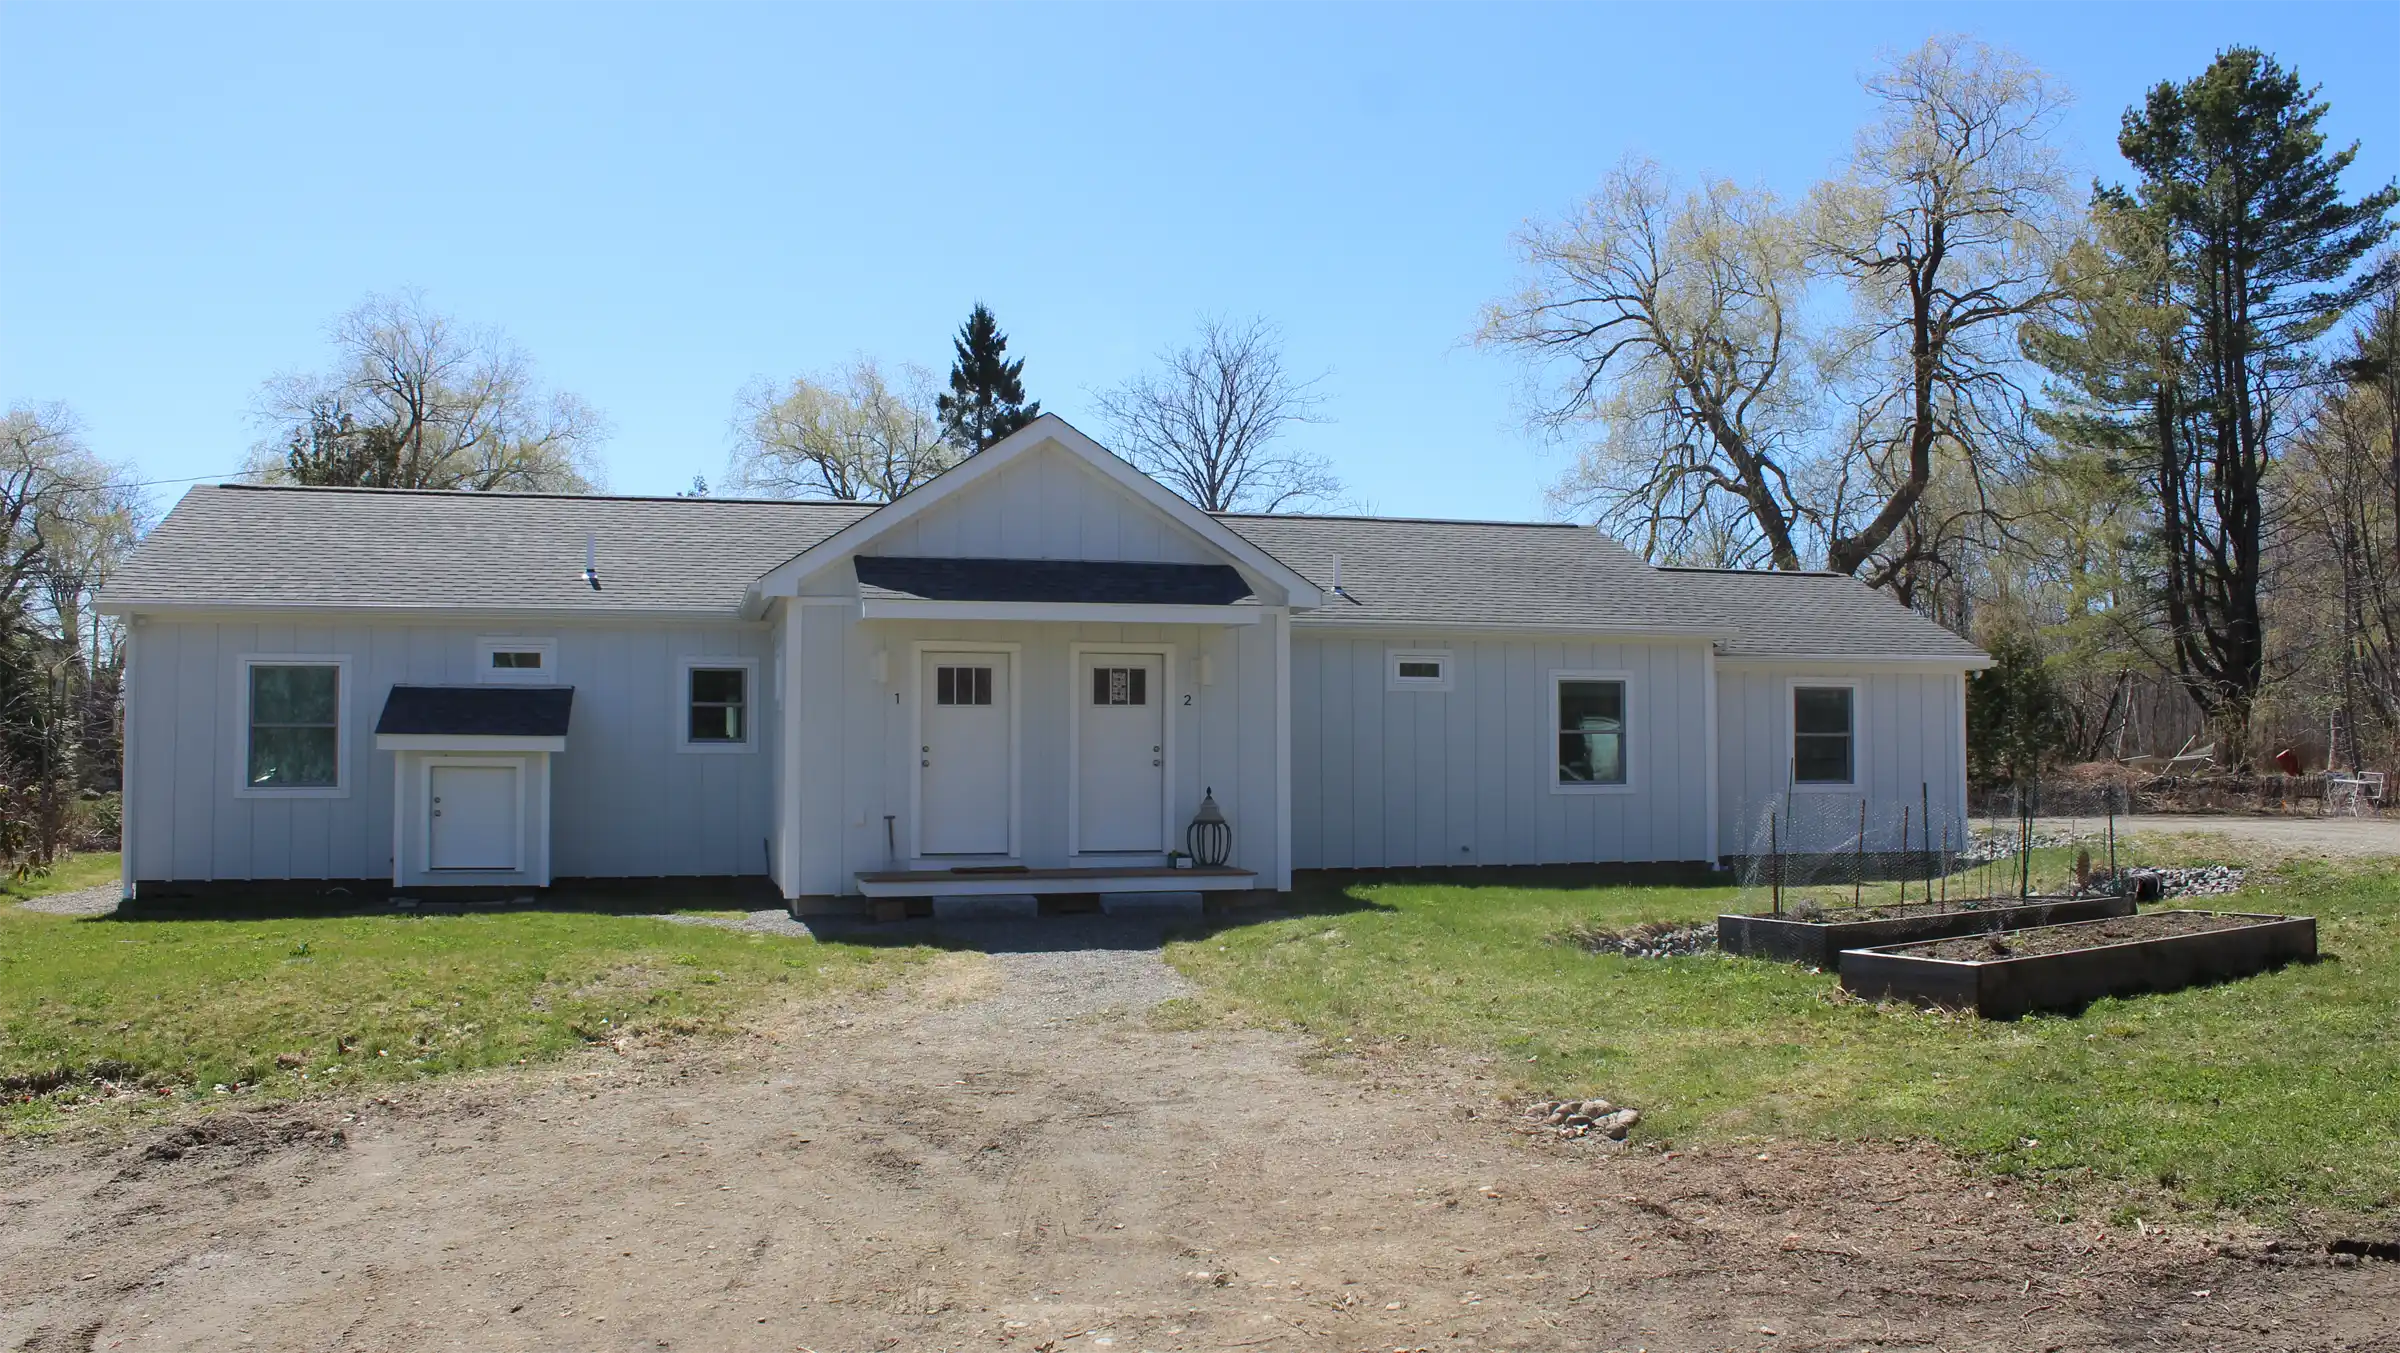
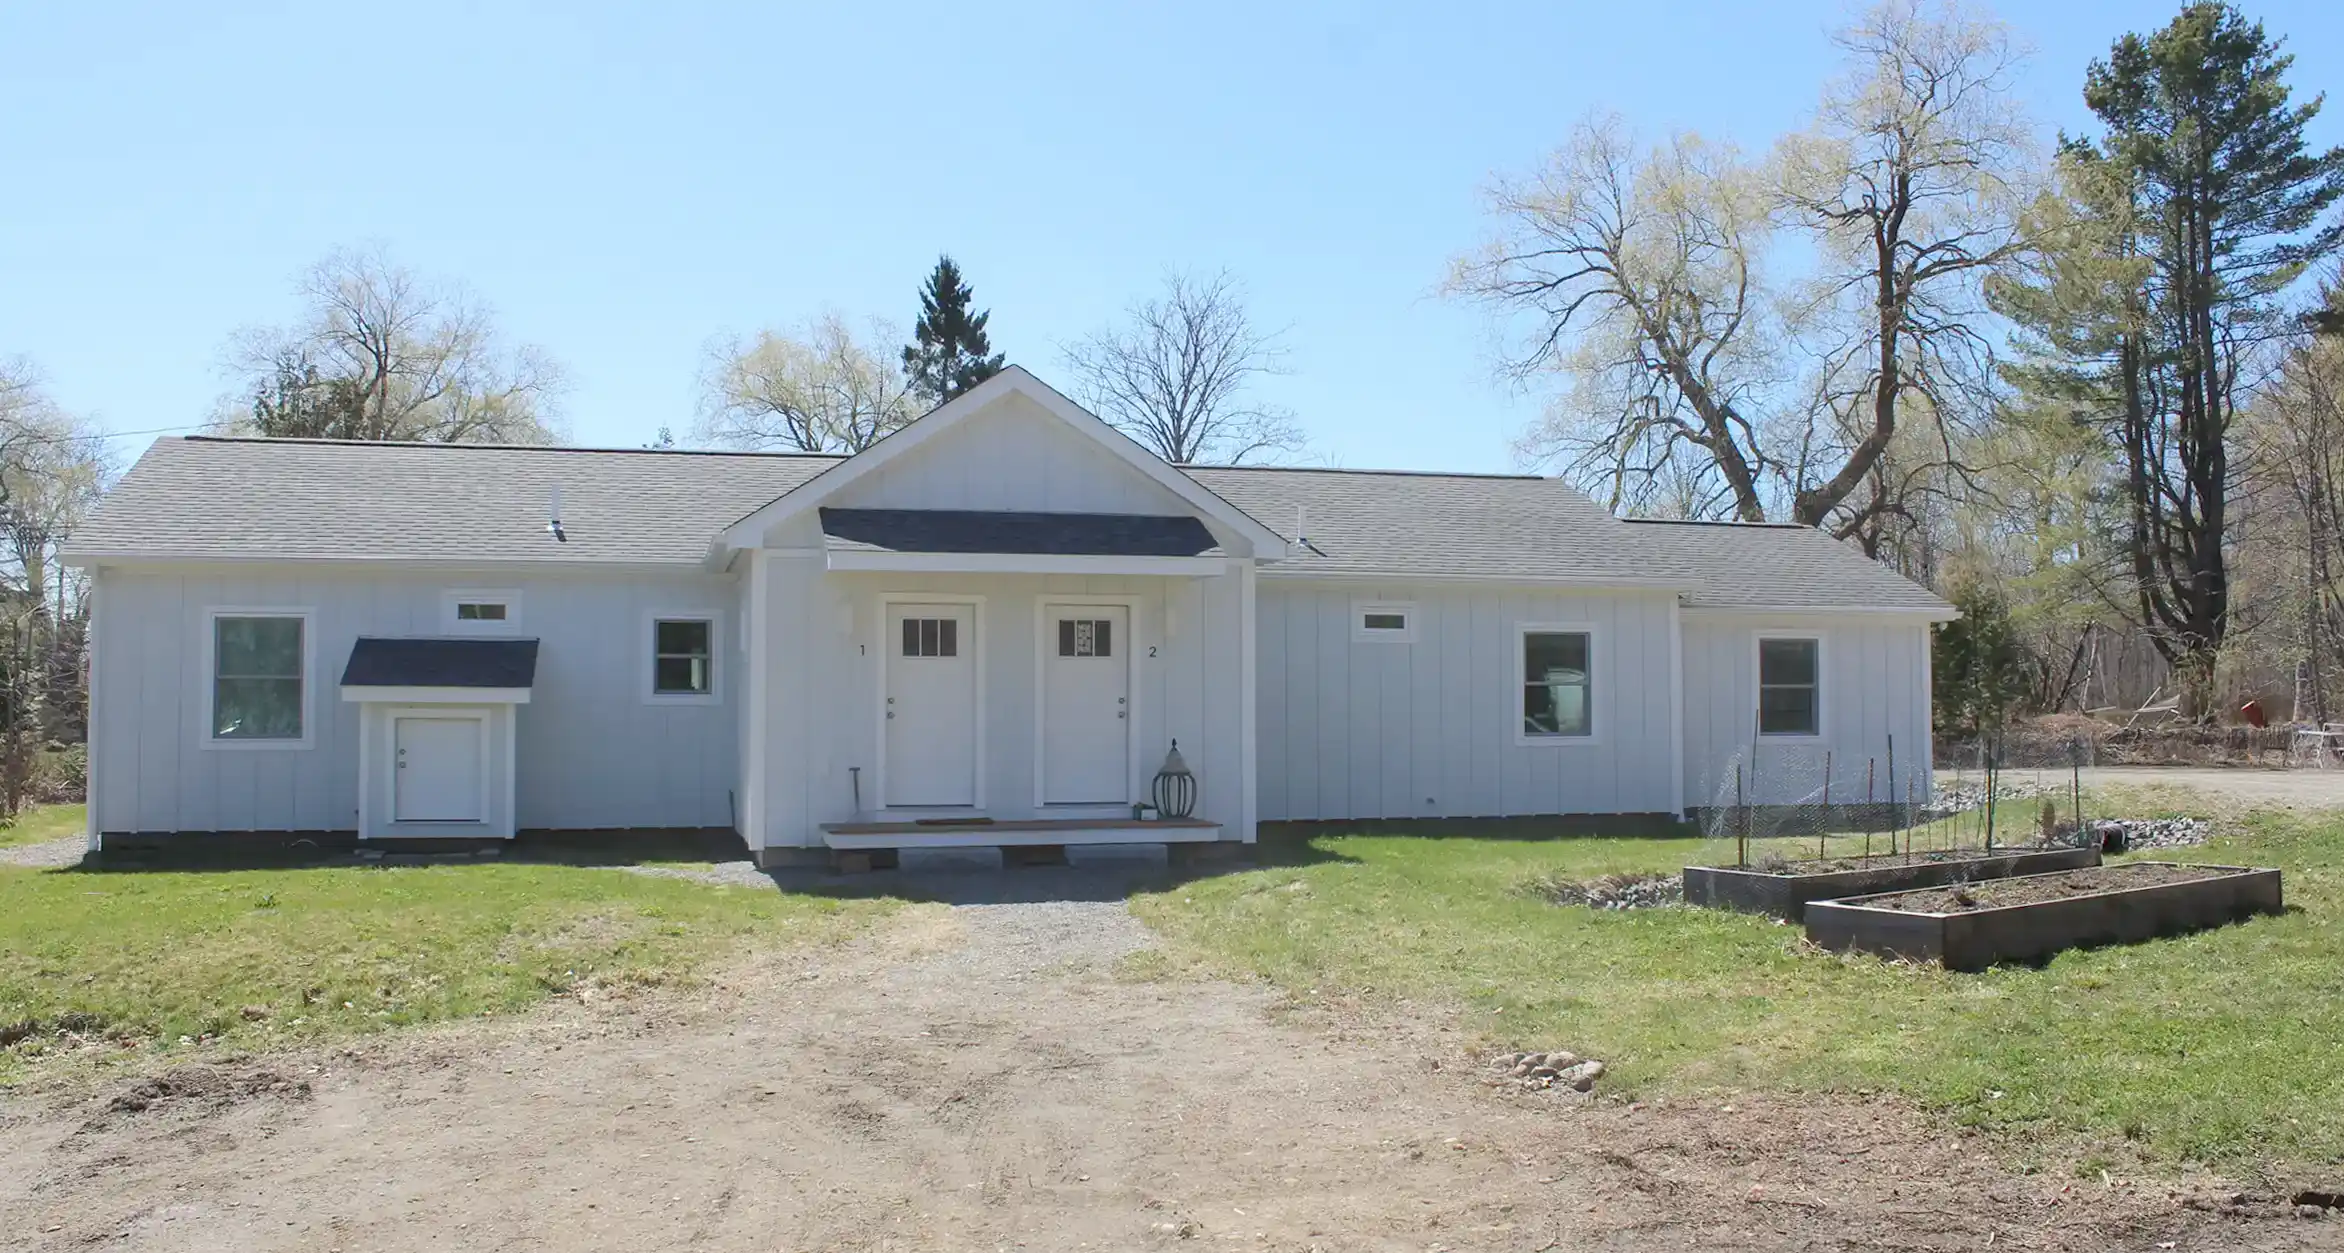
costing data added

diff --git a/frontend/src/data/projectCostData.js b/frontend/src/data/projectCostData.js
@@ -1,61 +1,220 @@
 // src/data/projectCostData.js
-// Placeholder data — replace with actual figures from Excel pivot table
-// Structure mirrors pivot table output: systems → line items
+// Updated from pivot table — 358 High Street Belfast, ME
+// Costs reflect construction scope only (excludes property purchase)
 
 export const projectCostData = {
-  totalCost: 0, // replace with actual total
+  totalCost: 466492,
 
   systems: [
     {
-      system: "Site Work & Foundation",
+      system: "General Conditions",
+      labor: 28627,
+      material: 1897,
+      turnkey: 0,
+      total: 30524,
       items: [
-        { contractor: "Dube Construction LLC",  description: "Excavation, site drainage, walkways", cost: 0, notes: "" },
-        { contractor: "MacDonald Concrete",      description: "Foundation work",                    cost: 0, notes: "" },
-        { contractor: "GoodDeeds",               description: "Surveying",                          cost: 0, notes: "" },
-        { contractor: "Maine Raised Gardens",    description: "Raised garden beds",                 cost: 0, notes: "" },
-      ],
-    },
-    {
-      system: "Structure & Envelope",
-      items: [
-        { contractor: "Northridge Construction LLC", description: "General contracting",              cost: 0, notes: "" },
-        { contractor: "Maple Knoll Builders LLC",    description: "Carpentry, exterior insulation",   cost: 0, notes: "" },
-        { contractor: "N.E. Spray Foam",             description: "Spray foam insulation",            cost: 0, notes: "" },
-        { contractor: "Rainwater Solutions",         description: "Roof gutters",                     cost: 0, notes: "" },
-      ],
-    },
-    {
-      system: "HVAC & Ventilation",
-      items: [
-        { contractor: "October Engineering LLC", description: "HVAC design, ERV installation",    cost: 0, notes: "" },
-        { contractor: "Dave's Heat Pumps",       description: "Heat pump systems installation",   cost: 0, notes: "" },
-      ],
-    },
-    {
-      system: "Electrical",
-      items: [
-        { contractor: "Kenney and Gray LLC", description: "Electrical", cost: 0, notes: "" },
-      ],
-    },
-    {
-      system: "Plumbing",
-      items: [
-        { contractor: "Larrabee Plumbing", description: "Plumbing", cost: 0, notes: "" },
-      ],
-    },
-    {
-      system: "Finishes & Interiors",
-      items: [
-        { contractor: "Manson Wall",  description: "Drywall",        cost: 0, notes: "" },
-        { contractor: "Niess Tile",   description: "Bathroom tile",  cost: 0, notes: "" },
+        { component: "General Contractor", description: "Northridge Construction general conditions", labor: 26563, material: 0,     turnkey: 0,     total: 26563 },
+        { component: "Misc",               description: "Miscellaneous site expenses",                labor: 39,    material: 1213,  turnkey: 0,     total: 1252  },
+        { component: "Permit",             description: "Building and plumbing permits",              labor: 2024,  material: 133,   turnkey: 0,     total: 2158  },
+        { component: "Tools & Equipment",  description: "Tools and equipment purchases",              labor: 0,     material: 551,   turnkey: 0,     total: 551   },
       ],
     },
     {
       system: "Design & Professional Services",
+      labor: 0,
+      material: 0,
+      turnkey: 2684,
+      total: 2684,
       items: [
-        { contractor: "Maines Design",             description: "Design consultant",      cost: 0, notes: "" },
-        { contractor: "Maine Blower Door Testing", description: "Air leakage testing",    cost: 0, notes: "" },
+        { component: "Additions",           description: "Design consultant — front entry addition",  labor: 0, material: 0, turnkey: 625,  total: 625  },
+        { component: "Lot Boundary",        description: "GoodDeeds surveying",                       labor: 0, material: 0, turnkey: 1459, total: 1459 },
+        { component: "Structure & Envelope",description: "Maine Blower Door Testing",                 labor: 0, material: 0, turnkey: 600,  total: 600  },
+      ],
+    },
+    {
+      system: "Site Work",
+      labor: 37192,
+      material: 1672,
+      turnkey: 4497,
+      total: 43361,
+      items: [
+        { component: "Drainage",  description: "Site drainage",                           labor: 0,     material: 252,  turnkey: 0,    total: 252  },
+        { component: "Excavation",description: "Excavation — Dube Construction",          labor: 37192, material: 0,    turnkey: 0,    total: 37192 },
+        { component: "Landscape", description: "Hydroseeding, raised garden beds",        labor: 0,     material: 1420, turnkey: 4497, total: 5917 },
+      ],
+    },
+    {
+      system: "Demolition & Disposal",
+      labor: 3674,
+      material: 0,
+      turnkey: 0,
+      total: 3674,
+      items: [
+        { component: "General", description: "Demolition and disposal", labor: 3674, material: 0, turnkey: 0, total: 3674 },
+      ],
+    },
+    {
+      system: "Finishes & Interiors",
+      labor: 49257,
+      material: 65601,
+      turnkey: 0,
+      total: 114858,
+      items: [
+        { component: "Attics",              description: "Attic finishes",                            labor: 0,     material: 510,   turnkey: 0, total: 510   },
+        { component: "Bathrooms",           description: "Tile labor (Niess Tile), vanities",         labor: 4070,  material: 2904,  turnkey: 0, total: 6974  },
+        { component: "Ceilings",            description: "Ceiling finishes and paint",                labor: 190,   material: 229,   turnkey: 0, total: 419   },
+        { component: "Crawl Spaces",        description: "Crawl space finishes",                      labor: 0,     material: 795,   turnkey: 0, total: 795   },
+        { component: "Entries, Bathrooms",  description: "Entry and bathroom finishes",               labor: 0,     material: 110,   turnkey: 0, total: 110   },
+        { component: "Floors",              description: "Floor prep and underlayment",               labor: 0,     material: 2195,  turnkey: 0, total: 2195  },
+        { component: "Floors — Flooring",   description: "Hardwood flooring — labor and material",   labor: 7000,  material: 6984,  turnkey: 0, total: 13984 },
+        { component: "Interior Walls",      description: "Drywall, paint — Don Manson",              labor: 17074, material: 9310,  turnkey: 0, total: 26384 },
+        { component: "Kitchens",            description: "Cabinetry, countertops, installation",      labor: 3765,  material: 14813, turnkey: 0, total: 18578 },
+        { component: "Kitchens — Appliances",description: "Kitchen appliances",                      labor: 0,     material: 15376, turnkey: 0, total: 15376 },
+        { component: "Party Walls",         description: "Sound isolation — Maple Knoll Builders",   labor: 13658, material: 7561,  turnkey: 0, total: 21219 },
+        { component: "Storage Rooms",       description: "Storage room finishes",                    labor: 0,     material: 1956,  turnkey: 0, total: 1956  },
+        { component: "Storage Rooms, Shed", description: "Storage and shed finishes",                labor: 0,     material: 5107,  turnkey: 0, total: 5107  },
+        { component: "Windows",             description: "Window finishes and trim",                  labor: 0,     material: 1251,  turnkey: 0, total: 1251  },
+      ],
+    },
+    {
+      system: "Structure & Envelope",
+      labor: 59818,
+      material: 92351,
+      turnkey: 31274,
+      total: 183443,
+      items: [
+        { component: "Additions",      description: "Front entry and Unit 2 addition framing",        labor: 26350, material: 15391, turnkey: 0,     total: 41741 },
+        { component: "Attics",         description: "Attic spray foam — N.E. Spray Foam",             labor: 0,     material: 9960,  turnkey: 0,     total: 9960  },
+        { component: "Crawl Spaces",   description: "Crawl space insulation and encapsulation",       labor: 3100,  material: 8835,  turnkey: 0,     total: 11935 },
+        { component: "Exterior Walls", description: "Wall framing, insulation, LP SmartSide cladding",labor: 19518, material: 48352, turnkey: 7000,  total: 74870 },
+        { component: "Foundation",     description: "Foundation work",                                labor: 1800,  material: 14314, turnkey: 0,     total: 16114 },
+        { component: "Roof",           description: "Roofing — framing, sheathing, shingles",         labor: 9050,  material: 19773, turnkey: 0,     total: 28823 },
+      ],
+    },
+    {
+      system: "Plumbing",
+      labor: 12686,
+      material: 10485,
+      turnkey: 0,
+      total: 23172,
+      items: [
+        { component: "Bathrooms",             description: "Bathroom plumbing rough and finish",      labor: 0,     material: 777,  turnkey: 0, total: 777   },
+        { component: "Crawl Spaces",          description: "Crawl space plumbing",                   labor: 0,     material: 94,   turnkey: 0, total: 94    },
+        { component: "Crawl Spaces — Sump",   description: "Sump pump systems — Units 1 & 2",        labor: 0,     material: 568,  turnkey: 0, total: 568   },
+        { component: "Crawl Spaces — DHWHs",  description: "Domestic hot water heaters",             labor: 0,     material: 1063, turnkey: 0, total: 1063  },
+        { component: "Kitchen",               description: "Kitchen plumbing",                        labor: 0,     material: 342,  turnkey: 0, total: 342   },
+        { component: "Plumbing",              description: "Miscellaneous plumbing materials",        labor: 0,     material: 1,    turnkey: 0, total: 1     },
+        { component: "Subcontractor",         description: "Larrabee Plumbing — labor and materials", labor: 12686, material: 7640, turnkey: 0, total: 20326 },
+      ],
+    },
+    {
+      system: "Electrical",
+      labor: 0,
+      material: 2220,
+      turnkey: 25668,
+      total: 27888,
+      items: [
+        { component: "Attic — Lighting",    description: "Owner installed attic lighting",                  labor: 0,    material: 122,  turnkey: 0,     total: 122   },
+        { component: "Ceilings",            description: "Owner supplied lighting fixtures",                labor: 0,    material: 860,  turnkey: 0,     total: 860   },
+        { component: "Crawl Space",         description: "Owner installed crawl space lighting",             labor: 0,    material: 243,  turnkey: 0,     total: 243   },
+        { component: "Exterior Walls",      description: "Owner supplied exterior lighting fixtures",        labor: 0,    material: 388,  turnkey: 0,     total: 388   },
+        { component: "Kitchen",             description: "Owner supplied kitchen lighting fixtures",          labor: 0,    material: 607,  turnkey: 0,     total: 607   },
+        { component: "Subcontractor",       description: "Kenney & Gray — wiring, devices and panel work",    labor: 0, material: 0,    turnkey: 25668, total: 25668 },
+      ],
+    },
+    {
+      system: "HVAC & Ventilation",
+      labor: 12467,
+      material: 22315,
+      turnkey: 0,
+      total: 34782,
+      items: [
+        { component: "Crawl Spaces — Dehumidifiers", description: "Crawl space dehumidifiers",       labor: 0,     material: 842,  turnkey: 0, total: 842   },
+        { component: "Exhaust",                      description: "Kitchen and bath exhaust systems", labor: 0,     material: 1373, turnkey: 0, total: 1373  },
+        { component: "Heating and Cooling",          description: "Mitsubishi heat pump equipment",  labor: 0,     material: 11504,turnkey: 0, total: 11504 },
+        { component: "Heating, Cooling — Sub",       description: "Dave's Heat Pumps — installation",labor: 12467, material: 0,    turnkey: 0, total: 12467 },
+        { component: "Ventilation",                  description: "ERV systems, ductwork, controls", labor: 0,     material: 8596, turnkey: 0, total: 8596  },
+      ],
+    },
+    {
+      system: "Monitoring & Controls",
+      labor: 0,
+      material: 2107,
+      turnkey: 0,
+      total: 2107,
+      items: [
+        { component: "Conditioned Space", description: "AirThings and TempStick sensors", labor: 0, material: 2107, turnkey: 0, total: 2107 },
       ],
     },
   ],
 };
+
+
+
+
+
+
+
+
+
+
+// src/data/projectCostData.js
+// Placeholder data — replace with actual figures from Excel pivot table
+// Structure mirrors pivot table output: systems → line items
+// org export const projectCostData = {
+//   totalCost: 0, // replace with actual total
+
+//   systems: [
+//     {
+//       system: "Site Work & Foundation",
+//       items: [
+//         { contractor: "Dube Construction LLC",  description: "Excavation, site drainage, walkways", cost: 0, notes: "" },
+//         { contractor: "MacDonald Concrete",      description: "Foundation work",                    cost: 0, notes: "" },
+//         { contractor: "GoodDeeds",               description: "Surveying",                          cost: 0, notes: "" },
+//         { contractor: "Maine Raised Gardens",    description: "Raised garden beds",                 cost: 0, notes: "" },
+//       ],
+//     },
+//     {
+//       system: "Structure & Envelope",
+//       items: [
+//         { contractor: "Northridge Construction LLC", description: "General contracting",              cost: 0, notes: "" },
+//         { contractor: "Maple Knoll Builders LLC",    description: "Carpentry, exterior insulation",   cost: 0, notes: "" },
+//         { contractor: "N.E. Spray Foam",             description: "Spray foam insulation",            cost: 0, notes: "" },
+//         { contractor: "Rainwater Solutions",         description: "Roof gutters",                     cost: 0, notes: "" },
+//       ],
+//     },
+//     {
+//       system: "HVAC & Ventilation",
+//       items: [
+//         { contractor: "October Engineering LLC", description: "HVAC design, ERV installation",    cost: 0, notes: "" },
+//         { contractor: "Dave's Heat Pumps",       description: "Heat pump systems installation",   cost: 0, notes: "" },
+//       ],
+//     },
+//     {
+//       system: "Electrical",
+//       items: [
+//         { contractor: "Kenney and Gray LLC", description: "Electrical", cost: 0, notes: "" },
+//       ],
+//     },
+//     {
+//       system: "Plumbing",
+//       items: [
+//         { contractor: "Larrabee Plumbing", description: "Plumbing", cost: 0, notes: "" },
+//       ],
+//     },
+//     {
+//       system: "Finishes & Interiors",
+//       items: [
+//         { contractor: "Manson Wall",  description: "Drywall",        cost: 0, notes: "" },
+//         { contractor: "Niess Tile",   description: "Bathroom tile",  cost: 0, notes: "" },
+//       ],
+//     },
+//     {
+//       system: "Design & Professional Services",
+//       items: [
+//         { contractor: "Maines Design",             description: "Design consultant",      cost: 0, notes: "" },
+//         { contractor: "Maine Blower Door Testing", description: "Air leakage testing",    cost: 0, notes: "" },
+//       ],
+//     },
+//   ],
+// };

diff --git a/frontend/src/components/pages/SolarPage.jsx b/frontend/src/components/pages/SolarPage.jsx
@@ -5,21 +5,26 @@ import arrayImage from "/images/img-array.webp"
 
 export default function SolarPage() {
   return (
-    <div>
+    <div className="max-w-5xl mx-auto space-y-4">
+      {/* Header */}
+      <div>
+        <h1 className="text-3xl font-semibold text-gray-900 mb-2">Solar Electricity</h1>
+      </div>
 
-      <div className=" py-4 max-w-3xl">
+      <div className=" py-2 max-w-3xl">
         <img
           src={arrayImage}
           alt="Proposed onsite array layout: 6 panels on addition roof, 13 panels on main roof"
           className="w-full rounded shadow-sm"
         />
-        <p className="text-sm text-gray-500 mt-2">
+        <p className="text-base text-gray-900 mt-2">
           Proposed 19-panel layout across two south-southeast facing roof planes.
           Revision Energy, April 2026.
         </p>
       </div>
+
       <MarkdownPage content={content} />
-    </div>
+  </div>
 
   )
 }

diff --git a/frontend/src/components/pages/HomePage.jsx b/frontend/src/components/pages/HomePage.jsx
@@ -62,14 +62,14 @@ export default function HomePage() {
         </div>
 
         <p>
-          Design considerations, construction photo galleries, performance data, and project downloads are accessible from the navigation menu. The retrofit scope included a high-performance thermal envelope, new living spaces, updated finishes, rebuilt party wall sound isolation, and fully electrified heating, cooling, and domestic hot water systems. Click the button below for a sample construction photo gallery.
+          Design considerations, construction photo galleries, performance data, and project downloads are accessible from the navigation menu. The retrofit scope included a high-performance thermal envelope, new living spaces, updated finishes, rebuilt party wall sound isolation, and fully electrified heating, cooling, and domestic hot water systems. Next, solar PV will be installed. Click the button below for details.
         </p>
         <div className="text-center">
           <button
             className="inline-block mt-4 px-6 py-3 bg-green-600 text-white text-lg rounded-lg hover:bg-green-700 transition"
-            onClick={() => navigateTo("construction/party-walls")}
+            onClick={() => navigateTo("solar")}
           >
-            Duplex party walls
+            Solar PV
           </button>
         </div>
       </section>

diff --git a/frontend/src/components/pages/IssuesPage.jsx b/frontend/src/components/pages/IssuesPage.jsx
@@ -3,5 +3,9 @@ import MarkdownPage from "./MarkdownPage";
 import content from "../../content/goals-challenges.md?raw";
 
 export default function IssuesPage() {
-  return <MarkdownPage content={content} />;
+  return (
+      <div className="max-w-5xl mx-auto space-y-10">
+          <MarkdownPage content={content} />;
+    </div>
+  )
 }

diff --git a/frontend/src/components/routes/GalleryRoute.jsx b/frontend/src/components/routes/GalleryRoute.jsx
@@ -23,7 +23,8 @@ export default function GalleryRoute() {
   // console.log(`GalleryRoute: images: ${images}`)
 
   return (
-    <div className="p-6">
+    <div className="max-w-5xl mx-auto space-y-10">
+     {/* <div className="p-6"> */}
       {/* Breadcrumb from URL 
       <div className="mb-4 text-sm text-gray-600">
         {key.split("/").filter(Boolean).map((seg, i, arr) => (

diff --git a/frontend/src/components/pages/EnergyPage.jsx b/frontend/src/components/pages/EnergyPage.jsx
@@ -51,7 +51,7 @@ function NotesList({ notes }) {
 
 export default function EnergyPage() {
   return (
-    <div className="max-w-4xl mx-auto space-y-8">
+    <div className="max-w-5xl mx-auto space-y-10">
 
       {/* Header */}
       <div>